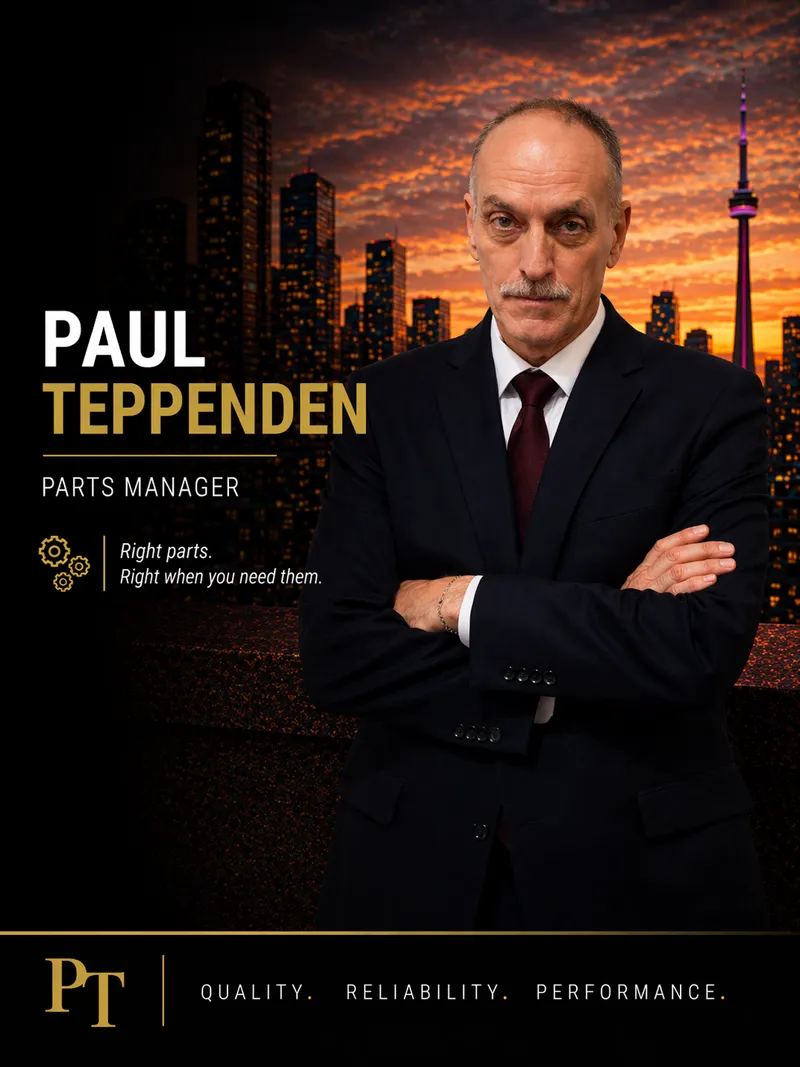
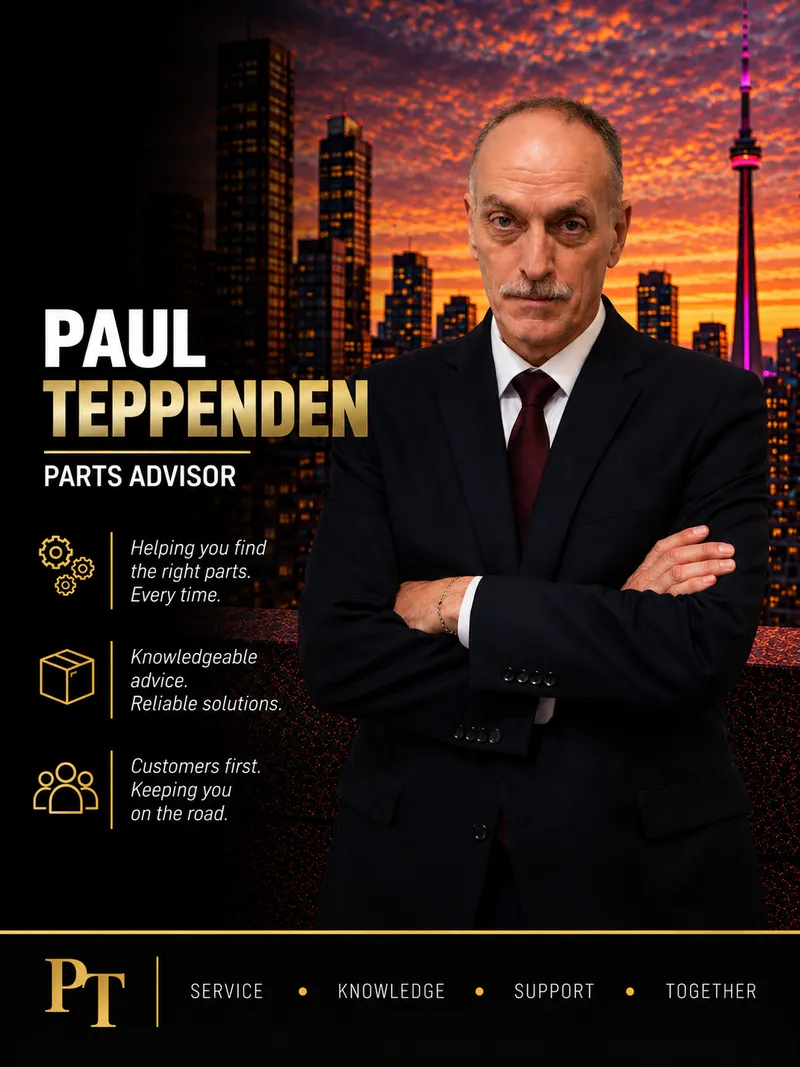
Remove Chandra Bose; Paul Teppenden is now a Parts Advisor
Chandra Bose (Parts Driver) removed from 09 — Parts Team. His
Chandra Bose.webp stays in team-photos/, matching how 827dc30 handled
Farhan Feroz — the photo costs nothing to keep and saves a re-shoot if
he returns.

Paul Teppenden moves from 08 — Parts Management to 09 — Parts Team and
his role changes from Parts Manager to Parts Advisor. A "Parts Advisor"
left under "Leading the Parts Counter" would have contradicted the
section heading, so he sits with Kazem and Sheayhon instead. Ext. 2240
and paul@goldenmilechrysler.ca are unchanged.

New photo supplied for Paul in the same sunset-portrait house style as
the recent additions. Source png replaced and the webp regenerated at
width 800 / quality 80 per Decisions.md — replacing only the png would
have silently kept serving the old webp.

Parts Management is now Bob Wills + Nick Mallette; Parts Team is Kazem,
Sheayhon, Paul. Roster is 34 in team-d2c.html.

team.html updated for both people as well, but note it is still three
people behind (31) — 68386c1 and 5979327 landed in team-d2c.html only.
That drift is pre-existing and not addressed here.

team-edealer.* regenerated with node build-edealer.mjs.

diff --git a/team-edealer.embed.html b/team-edealer.embed.html
@@ -331,19 +331,6 @@
         <div class="gmc-grid">
           <div class="gmc-cell">
             <div class="gmc-box">
-              <div class="gmc-img"><img src="https://golden-mile-team-page.pages.dev/team-photos/Paul%20Teppenden.webp" alt="Paul Teppenden" loading="lazy" width="800" height="1067"></div>
-              <div class="gmc-details">
-                <div class="gmc-name">Paul Teppenden</div>
-                <div class="gmc-title">Parts Manager</div>
-              <ul class="gmc-contact">
-                <li><span class="gmc-ico gmc-ico-phone"></span><span>Ext. 2240</span></li>
-                <li><span class="gmc-ico gmc-ico-mail"></span><a href="mailto:paul@goldenmilechrysler.ca">paul@goldenmilechrysler.ca</a></li>
-              </ul>
-              </div>
-            </div>
-          </div>
-          <div class="gmc-cell">
-            <div class="gmc-box">
               <div class="gmc-img"><img src="https://golden-mile-team-page.pages.dev/team-photos/Bob%20Wills.webp" alt="Bob Wills" loading="lazy" width="800" height="1067"></div>
               <div class="gmc-details">
                 <div class="gmc-name">Bob Wills</div>
@@ -399,12 +386,13 @@
           </div>
           <div class="gmc-cell">
             <div class="gmc-box">
-              <div class="gmc-img"><img src="https://golden-mile-team-page.pages.dev/team-photos/Chandra%20Bose.webp" alt="Chandra Bose" loading="lazy" width="800" height="1067"></div>
+              <div class="gmc-img"><img src="https://golden-mile-team-page.pages.dev/team-photos/Paul%20Teppenden.webp" alt="Paul Teppenden" loading="lazy" width="800" height="1067"></div>
               <div class="gmc-details">
-                <div class="gmc-name">Chandra Bose</div>
-                <div class="gmc-title">Parts Driver</div>
+                <div class="gmc-name">Paul Teppenden</div>
+                <div class="gmc-title">Parts Advisor</div>
               <ul class="gmc-contact">
-                <li><span class="gmc-ico gmc-ico-mail"></span><a href="mailto:midweekads1@gmail.com">midweekads1@gmail.com</a></li>
+                <li><span class="gmc-ico gmc-ico-phone"></span><span>Ext. 2240</span></li>
+                <li><span class="gmc-ico gmc-ico-mail"></span><a href="mailto:paul@goldenmilechrysler.ca">paul@goldenmilechrysler.ca</a></li>
               </ul>
               </div>
             </div>

diff --git a/team-edealer.html b/team-edealer.html
@@ -331,19 +331,6 @@
         <div class="gmc-grid">
           <div class="gmc-cell">
             <div class="gmc-box">
-              <div class="gmc-img"><img src="https://golden-mile-team-page.pages.dev/team-photos/Paul%20Teppenden.webp" alt="Paul Teppenden" loading="lazy" width="800" height="1067"></div>
-              <div class="gmc-details">
-                <div class="gmc-name">Paul Teppenden</div>
-                <div class="gmc-title">Parts Manager</div>
-              <ul class="gmc-contact">
-                <li><span class="gmc-ico gmc-ico-phone"></span><span>Ext. 2240</span></li>
-                <li><span class="gmc-ico gmc-ico-mail"></span><a href="mailto:paul@goldenmilechrysler.ca">paul@goldenmilechrysler.ca</a></li>
-              </ul>
-              </div>
-            </div>
-          </div>
-          <div class="gmc-cell">
-            <div class="gmc-box">
               <div class="gmc-img"><img src="https://golden-mile-team-page.pages.dev/team-photos/Bob%20Wills.webp" alt="Bob Wills" loading="lazy" width="800" height="1067"></div>
               <div class="gmc-details">
                 <div class="gmc-name">Bob Wills</div>
@@ -399,12 +386,13 @@
           </div>
           <div class="gmc-cell">
             <div class="gmc-box">
-              <div class="gmc-img"><img src="https://golden-mile-team-page.pages.dev/team-photos/Chandra%20Bose.webp" alt="Chandra Bose" loading="lazy" width="800" height="1067"></div>
+              <div class="gmc-img"><img src="https://golden-mile-team-page.pages.dev/team-photos/Paul%20Teppenden.webp" alt="Paul Teppenden" loading="lazy" width="800" height="1067"></div>
               <div class="gmc-details">
-                <div class="gmc-name">Chandra Bose</div>
-                <div class="gmc-title">Parts Driver</div>
+                <div class="gmc-name">Paul Teppenden</div>
+                <div class="gmc-title">Parts Advisor</div>
               <ul class="gmc-contact">
-                <li><span class="gmc-ico gmc-ico-mail"></span><a href="mailto:midweekads1@gmail.com">midweekads1@gmail.com</a></li>
+                <li><span class="gmc-ico gmc-ico-phone"></span><span>Ext. 2240</span></li>
+                <li><span class="gmc-ico gmc-ico-mail"></span><a href="mailto:paul@goldenmilechrysler.ca">paul@goldenmilechrysler.ca</a></li>
               </ul>
               </div>
             </div>

diff --git a/team-edealer.local.html b/team-edealer.local.html
@@ -340,19 +340,6 @@
         <div class="gmc-grid">
           <div class="gmc-cell">
             <div class="gmc-box">
-              <div class="gmc-img"><img src="team-photos/Paul%20Teppenden.webp" alt="Paul Teppenden" loading="lazy" width="800" height="1067"></div>
-              <div class="gmc-details">
-                <div class="gmc-name">Paul Teppenden</div>
-                <div class="gmc-title">Parts Manager</div>
-              <ul class="gmc-contact">
-                <li><span class="gmc-ico gmc-ico-phone"></span><span>Ext. 2240</span></li>
-                <li><span class="gmc-ico gmc-ico-mail"></span><a href="mailto:paul@goldenmilechrysler.ca">paul@goldenmilechrysler.ca</a></li>
-              </ul>
-              </div>
-            </div>
-          </div>
-          <div class="gmc-cell">
-            <div class="gmc-box">
               <div class="gmc-img"><img src="team-photos/Bob%20Wills.webp" alt="Bob Wills" loading="lazy" width="800" height="1067"></div>
               <div class="gmc-details">
                 <div class="gmc-name">Bob Wills</div>
@@ -408,12 +395,13 @@
           </div>
           <div class="gmc-cell">
             <div class="gmc-box">
-              <div class="gmc-img"><img src="team-photos/Chandra%20Bose.webp" alt="Chandra Bose" loading="lazy" width="800" height="1067"></div>
+              <div class="gmc-img"><img src="team-photos/Paul%20Teppenden.webp" alt="Paul Teppenden" loading="lazy" width="800" height="1067"></div>
               <div class="gmc-details">
-                <div class="gmc-name">Chandra Bose</div>
-                <div class="gmc-title">Parts Driver</div>
+                <div class="gmc-name">Paul Teppenden</div>
+                <div class="gmc-title">Parts Advisor</div>
               <ul class="gmc-contact">
-                <li><span class="gmc-ico gmc-ico-mail"></span><a href="mailto:midweekads1@gmail.com">midweekads1@gmail.com</a></li>
+                <li><span class="gmc-ico gmc-ico-phone"></span><span>Ext. 2240</span></li>
+                <li><span class="gmc-ico gmc-ico-mail"></span><a href="mailto:paul@goldenmilechrysler.ca">paul@goldenmilechrysler.ca</a></li>
               </ul>
               </div>
             </div>

diff --git a/team-d2c.html b/team-d2c.html
@@ -391,19 +391,6 @@
 
       <div class="col-md-6 col-lg-4">
         <div class="staff-card">
-          <div class="staff-photo-wrap"><img src="https://golden-mile-team-page.pages.dev/team-photos/Paul%20Teppenden.webp" alt="Paul Teppenden" class="staff-photo"></div>
-          <div class="staff-info">
-            <h3 class="staff-name">Paul Teppenden</h3>
-            <p class="staff-role">Parts Manager</p>
-            <hr class="staff-divider">
-            <p class="staff-contact"><i class="fas fa-phone icon"></i>Ext. 2240</p>
-            <p class="staff-contact"><i class="fas fa-envelope icon"></i><a href="mailto:paul@goldenmilechrysler.ca">paul@goldenmilechrysler.ca</a></p>
-          </div>
-        </div>
-      </div>
-
-      <div class="col-md-6 col-lg-4">
-        <div class="staff-card">
           <div class="staff-photo-wrap"><img src="https://golden-mile-team-page.pages.dev/team-photos/Bob%20Wills.webp" alt="Bob Wills" class="staff-photo"></div>
           <div class="staff-info">
             <h3 class="staff-name">Bob Wills</h3>
@@ -466,12 +453,13 @@
 
       <div class="col-md-6 col-lg-4">
         <div class="staff-card">
-          <div class="staff-photo-wrap"><img src="https://golden-mile-team-page.pages.dev/team-photos/Chandra%20Bose.webp" alt="Chandra Bose" class="staff-photo"></div>
+          <div class="staff-photo-wrap"><img src="https://golden-mile-team-page.pages.dev/team-photos/Paul%20Teppenden.webp" alt="Paul Teppenden" class="staff-photo"></div>
           <div class="staff-info">
-            <h3 class="staff-name">Chandra Bose</h3>
-            <p class="staff-role">Parts Driver</p>
+            <h3 class="staff-name">Paul Teppenden</h3>
+            <p class="staff-role">Parts Advisor</p>
             <hr class="staff-divider">
-            <p class="staff-contact"><i class="fas fa-envelope icon"></i><a href="mailto:midweekads1@gmail.com">midweekads1@gmail.com</a></p>
+            <p class="staff-contact"><i class="fas fa-phone icon"></i>Ext. 2240</p>
+            <p class="staff-contact"><i class="fas fa-envelope icon"></i><a href="mailto:paul@goldenmilechrysler.ca">paul@goldenmilechrysler.ca</a></p>
           </div>
         </div>
       </div>

diff --git a/team.html b/team.html
@@ -572,19 +572,6 @@
 
     <div class="col-md-6 col-lg-4">
       <div class="staff-card">
-        <div class="staff-photo-wrap"><img src="team-photos/Paul Teppenden.webp" alt="Paul Teppenden" class="staff-photo"></div>
-        <div class="staff-info">
-          <h3 class="staff-name">Paul Teppenden</h3>
-          <p class="staff-role">Parts Manager</p>
-          <hr class="staff-divider">
-          <p class="staff-contact"><i class="fas fa-phone icon"></i>Ext. 2240</p>
-          <p class="staff-contact"><i class="fas fa-envelope icon"></i><a href="mailto:paul@goldenmilechrysler.ca">paul@goldenmilechrysler.ca</a></p>
-        </div>
-      </div>
-    </div>
-
-    <div class="col-md-6 col-lg-4">
-      <div class="staff-card">
         <div class="staff-photo-wrap"><img src="team-photos/Bob Wills.webp" alt="Bob Wills" class="staff-photo"></div>
         <div class="staff-info">
           <h3 class="staff-name">Bob Wills</h3>
@@ -647,12 +634,13 @@
 
     <div class="col-md-6 col-lg-4">
       <div class="staff-card">
-        <div class="staff-photo-wrap"><img src="team-photos/Chandra Bose.webp" alt="Chandra Bose" class="staff-photo"></div>
+        <div class="staff-photo-wrap"><img src="team-photos/Paul Teppenden.webp" alt="Paul Teppenden" class="staff-photo"></div>
         <div class="staff-info">
-          <h3 class="staff-name">Chandra Bose</h3>
-          <p class="staff-role">Parts Driver</p>
+          <h3 class="staff-name">Paul Teppenden</h3>
+          <p class="staff-role">Parts Advisor</p>
           <hr class="staff-divider">
-          <p class="staff-contact"><i class="fas fa-envelope icon"></i><a href="mailto:midweekads1@gmail.com">midweekads1@gmail.com</a></p>
+          <p class="staff-contact"><i class="fas fa-phone icon"></i>Ext. 2240</p>
+          <p class="staff-contact"><i class="fas fa-envelope icon"></i><a href="mailto:paul@goldenmilechrysler.ca">paul@goldenmilechrysler.ca</a></p>
         </div>
       </div>
     </div>
